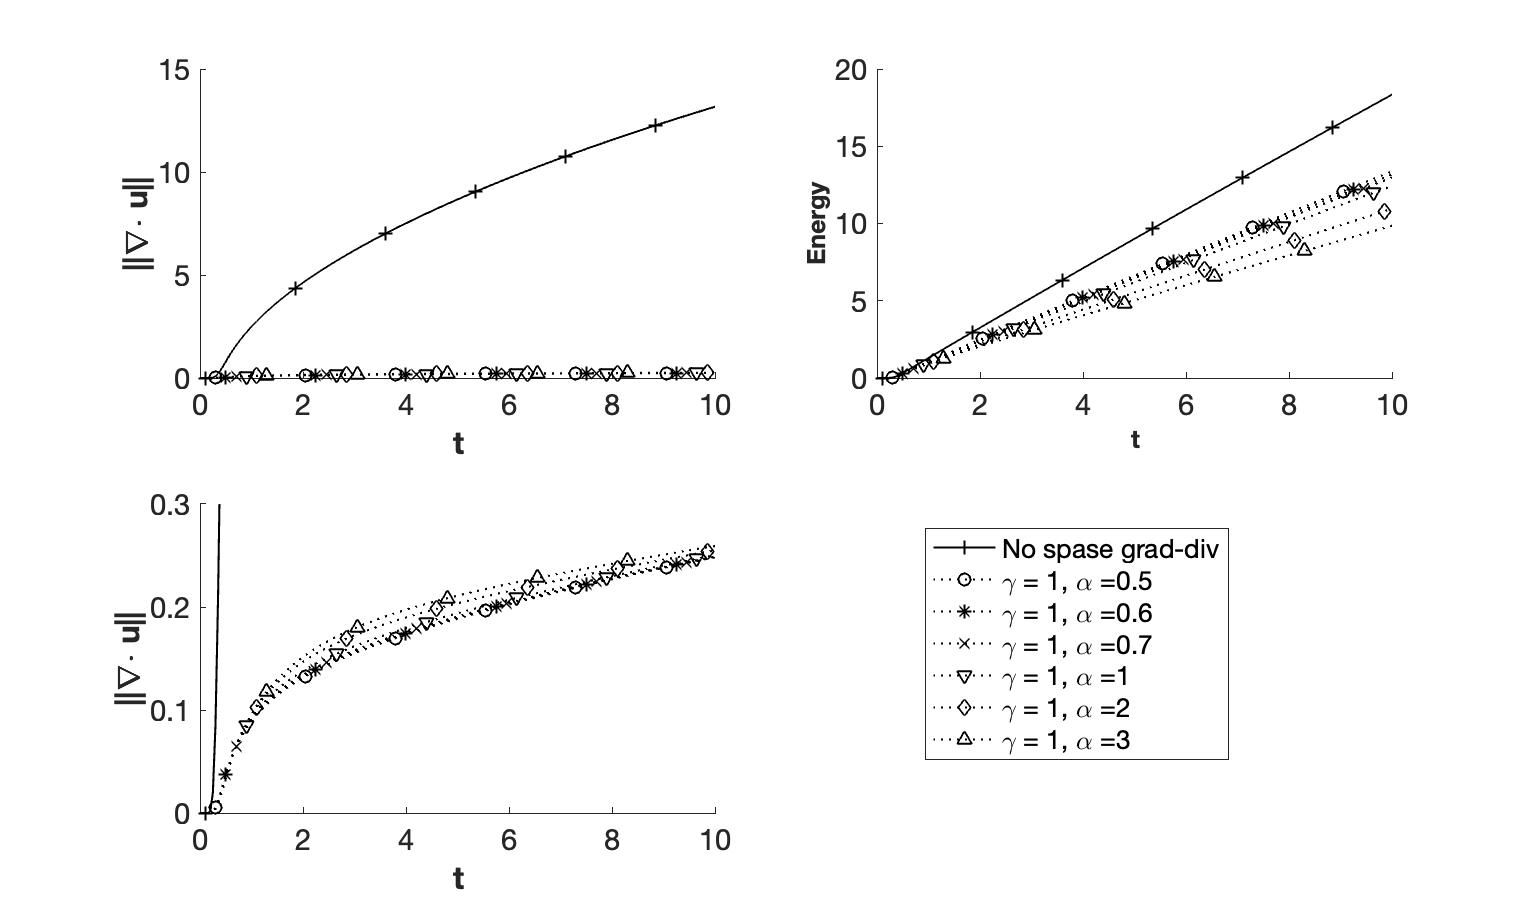
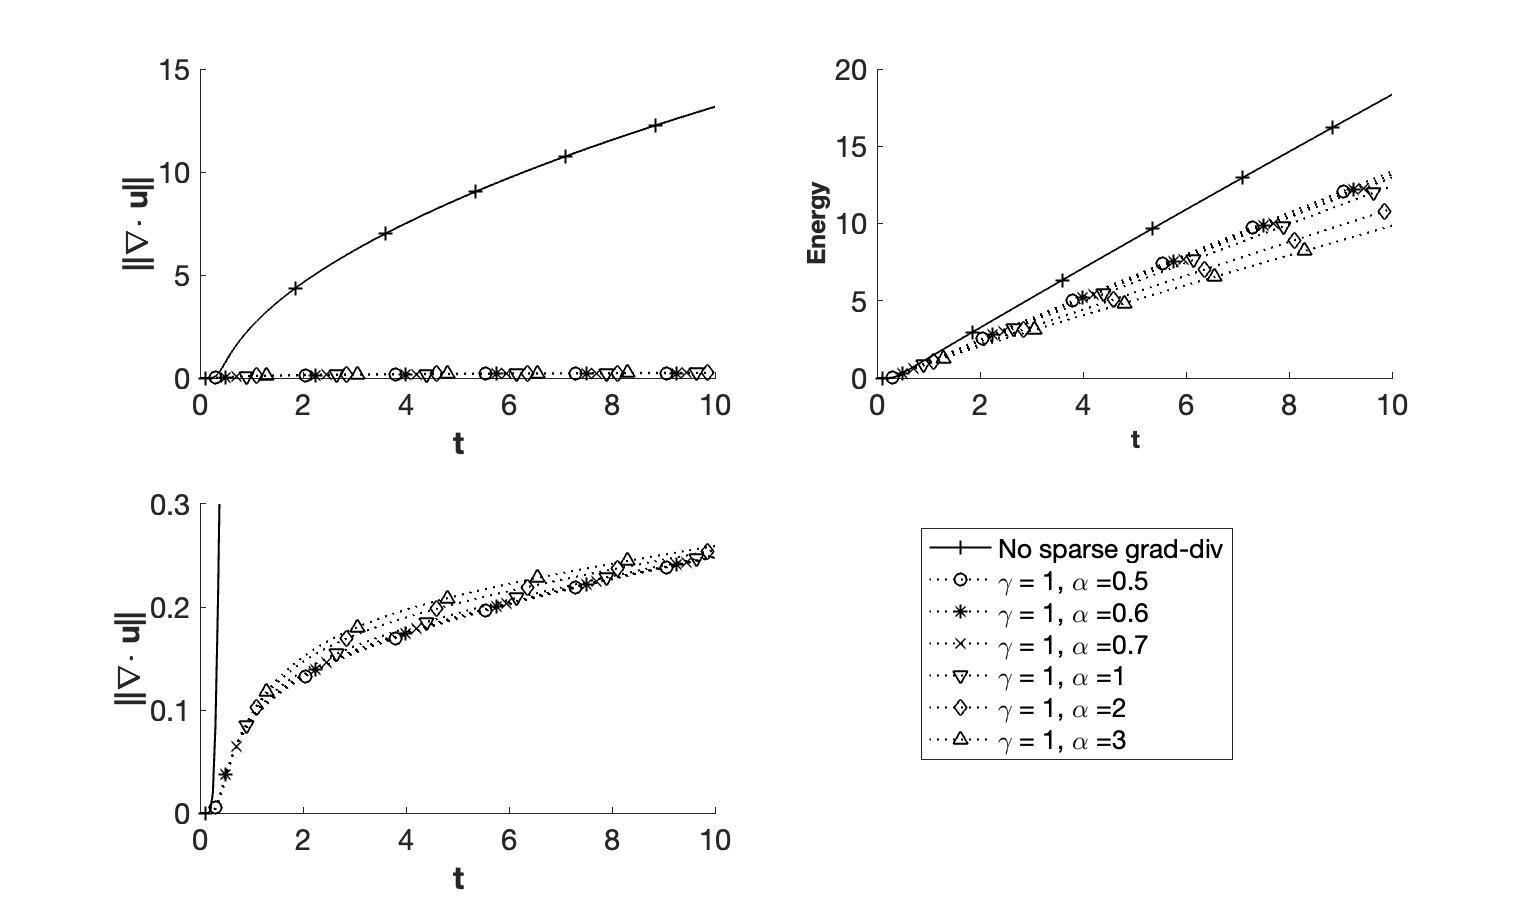
typo

Changed region(s): [[0.593, 0.5789, 0.8114, 0.8226]]

diff --git a/3doffsetcircle/Figure4.m b/3doffsetcircle/Figure4.m
@@ -25,7 +25,7 @@ for j = 1:size(para,1)
 end
 xlabel('t','FontSize',15,'FontWeight','bold')
 ylabel('||\nabla\cdot u||','FontSize',15,'FontWeight','bold')
-hl=legend('No spase grad-div','\gamma = 1, \alpha =0.5',...
+hl=legend('No sparse grad-div','\gamma = 1, \alpha =0.5',...
      '\gamma = 1, \alpha =0.6','\gamma = 1, \alpha =0.7',...
      '\gamma = 1, \alpha =1','\gamma = 1, \alpha =2',...
     '\gamma = 1, \alpha =3')
